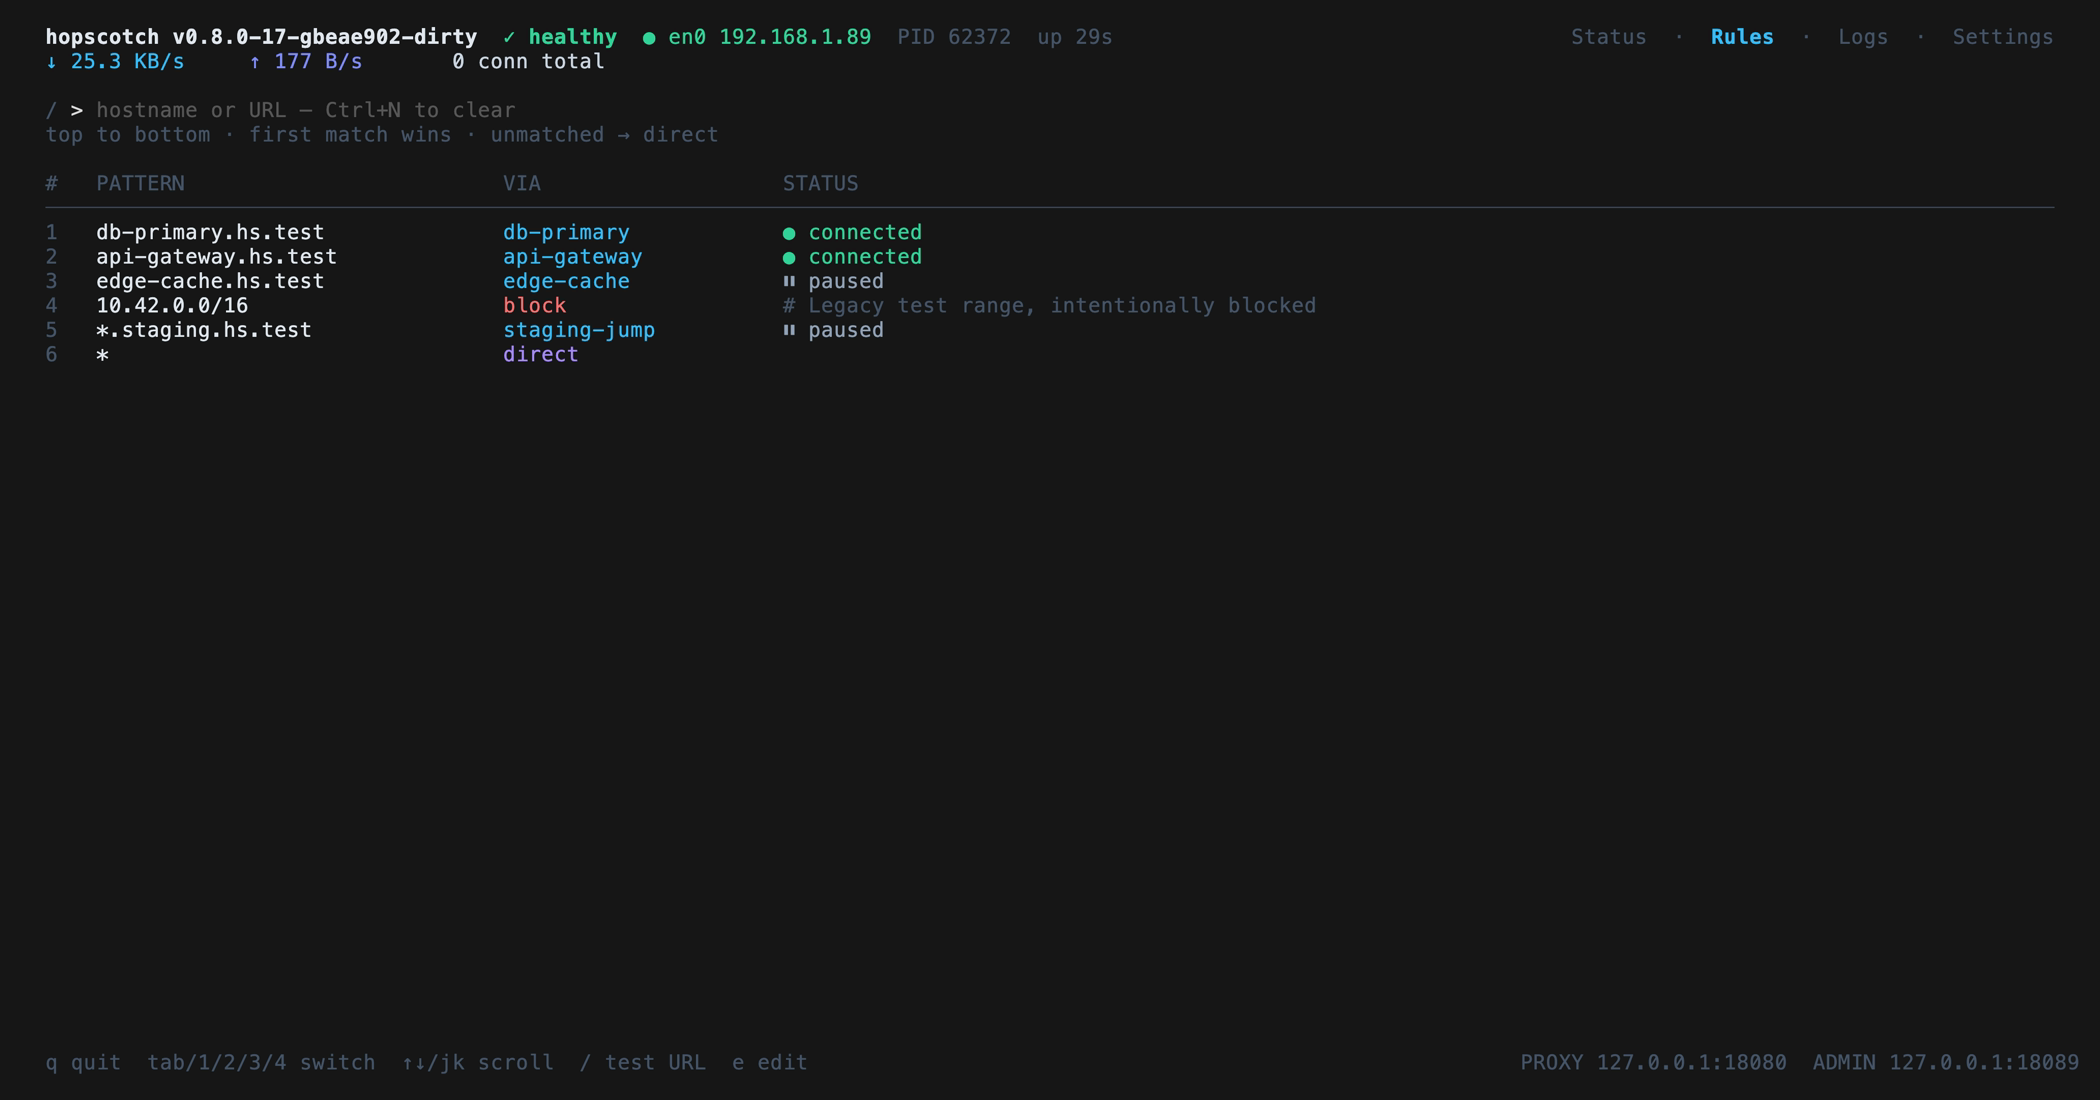
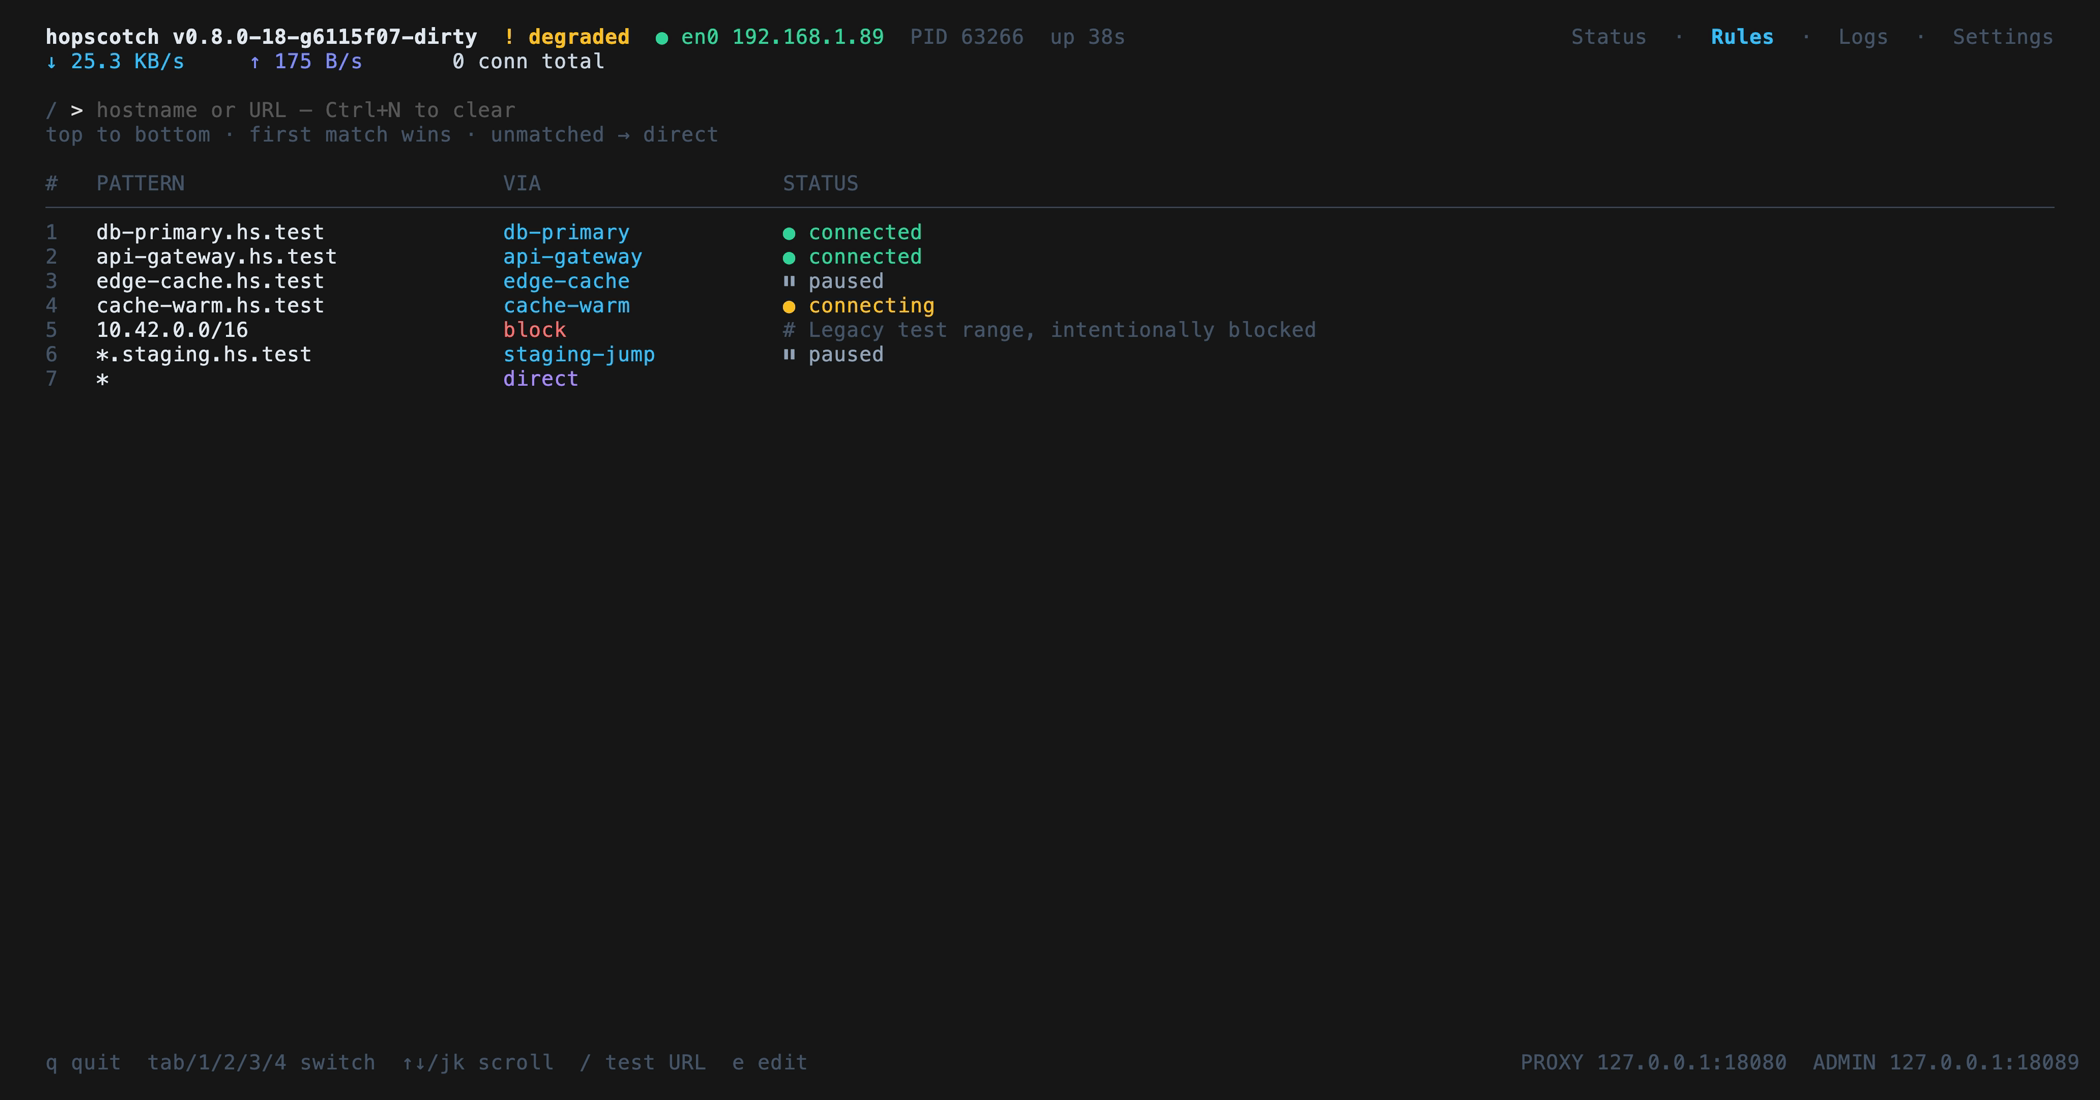
feat: add a live error/retry tunnel and populated traffic graphs to the demo fixture
No screenshot showed an error state or a graph with actual traffic in it.
Adds a 5th tunnel, cache-warm, with auto_pause_threshold disabled and
pointed at a closed port — it genuinely retries forever with a real
"TCP dial ... connection refused" error and a growing reconnect count,
flipping the header to "degraded" through the real code path. Also
discovered the TUI's graph view is off by default (compact: true) and
the web UI's per-row chart is empty until opened, so capture_tui.tape
now toggles graphs on (and waits for real SSE ticks to draw a proper
waveform) and capture_web.js opens db-primary's row the same way.
Regenerated all 8 screenshots.

diff --git a/scripts/demo/capture_web.js b/scripts/demo/capture_web.js
@@ -20,7 +20,9 @@ async function main() {
 
   await page.goto(baseURL);
   await waitForReady(page);
-  await page.waitForTimeout(500); // let one SSE tick land so bps numbers aren't blank
+  await page.click('tr.data-row[data-name="db-primary"]'); // expand its traffic chart
+  await page.waitForSelector('tr.graph-row[data-name="db-primary"] canvas');
+  await page.waitForTimeout(10000); // let enough SSE ticks land for a real waveform, not a flat line
   await page.screenshot({ path: `${docsDir}/ui-status.png` });
 
   await page.evaluate(() => window.switchTab('patterns'));
